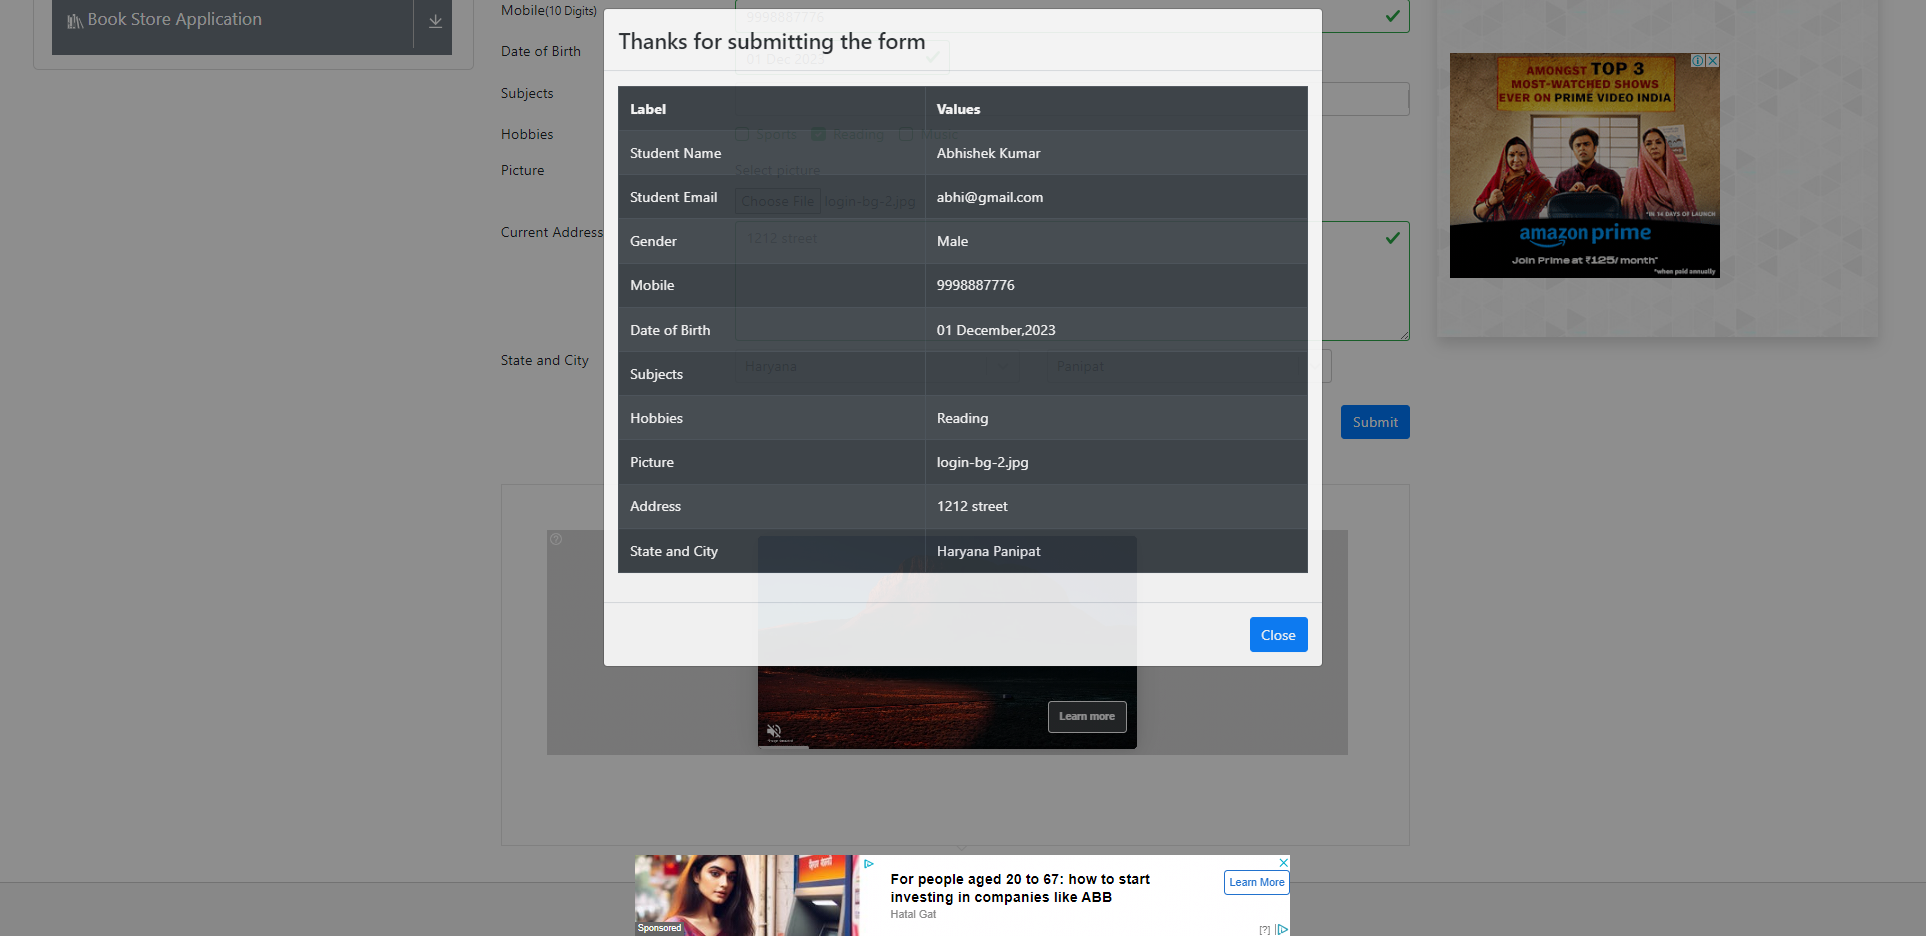
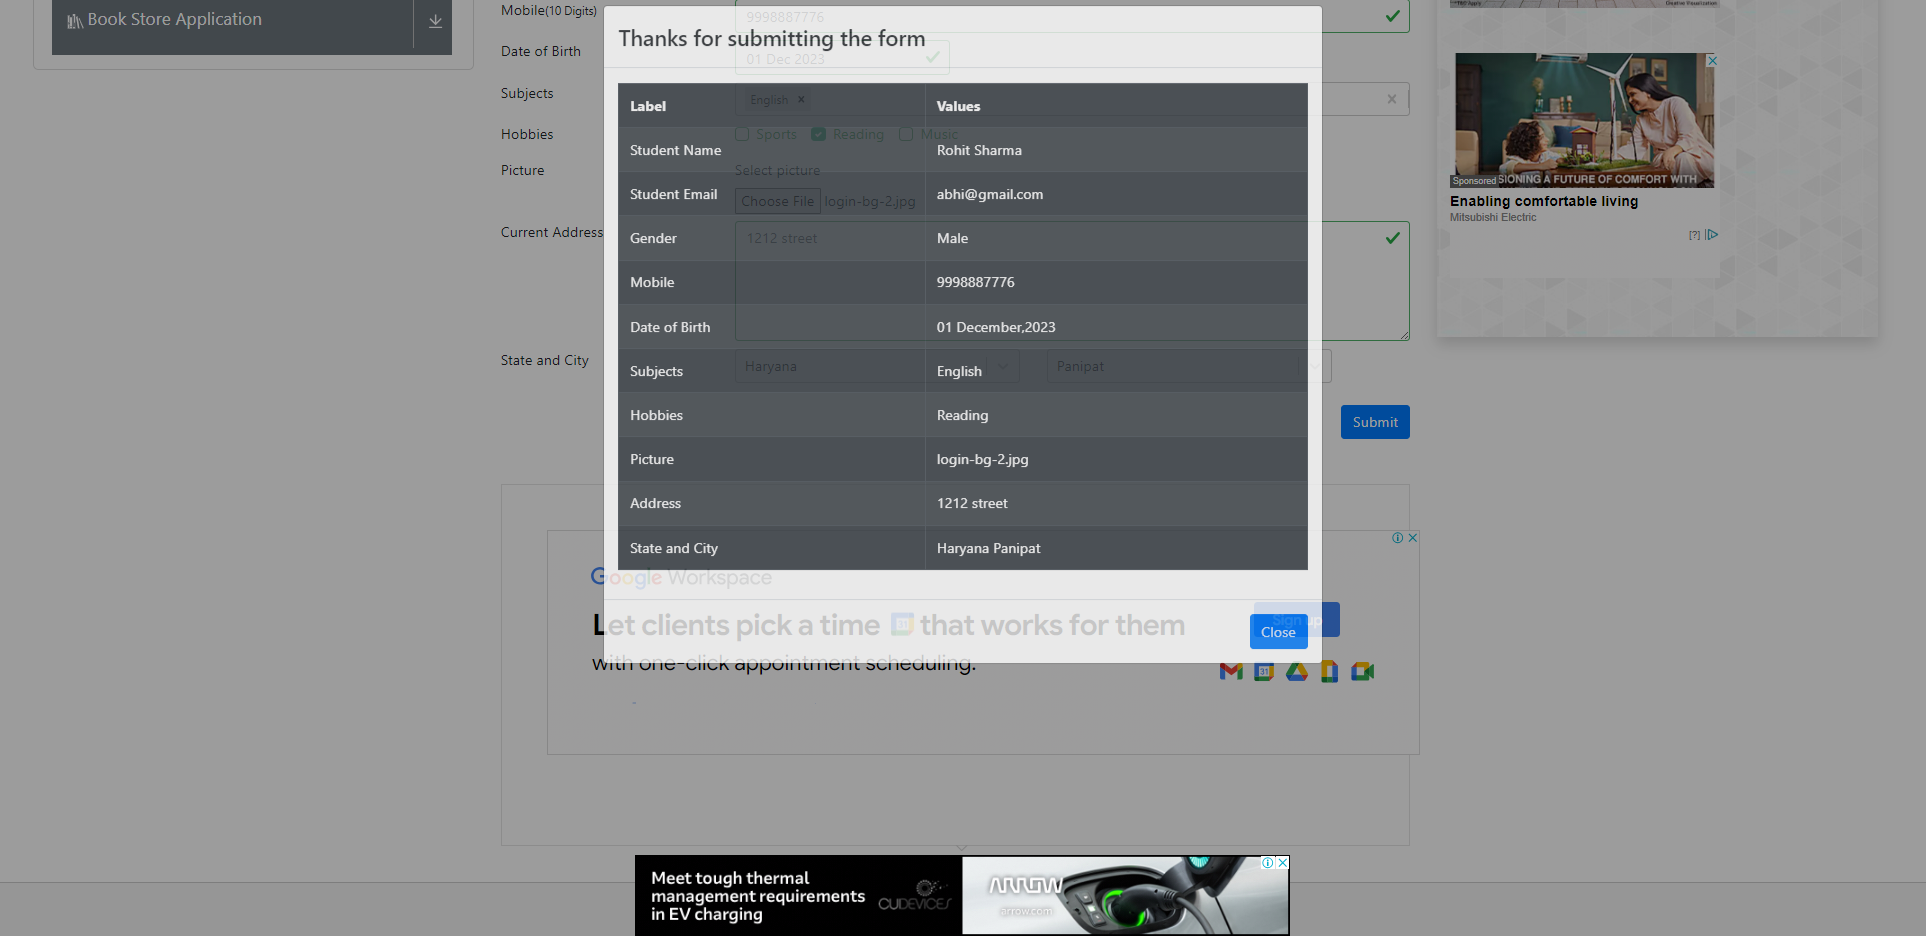
Assignment-1 completed

diff --git a/AutomationFramework/src/test/java/org/example/demo/SignupTest.java b/AutomationFramework/src/test/java/org/example/demo/SignupTest.java
@@ -4,6 +4,7 @@ import Pages.BaseClass;
 import Pages.MainPage;
 import Pages.PracticeFormPage;
 import Pages.StudentPage;
+import org.openqa.selenium.Keys;
 import org.testng.Assert;
 import org.testng.annotations.*;
 import utilities.Utilities;
@@ -47,12 +48,9 @@ public class SignupTest extends BaseClass {
         utilities.dropdownSelectByVisibleText(studentPage.year,year);
         utilities.dropdownSelectByVisibleText(studentPage.month,month);
         utilities.clickElement(driver,studentPage.selectDate(date));
-//        utilities.clickElement(driver, studentPage.subjects);
-//        studentPage.subjects.sendKeys("e");
-//        Thread.sleep(5000);
-//        utilities.enterBtnPress(driver);
-//        studentPage.subjects.sendKeys(subject2);
-//        utilities.enterBtnPress(driver);
+        utilities.clickElement(driver,studentPage.subjects);
+        studentPage.subjects.sendKeys(subject1);
+        utilities.enterBtnPress(driver);
         utilities.clickElement(driver,studentPage.selectHobbies(hobbies));
         studentPage.uploadBtn.sendKeys(picture);
         studentPage.address.sendKeys(addr);

diff --git a/AutomationFramework/src/main/java/utilities/Utilities.java b/AutomationFramework/src/main/java/utilities/Utilities.java
@@ -53,13 +53,6 @@ public void waits(WebDriver driver, WebElement element, String condition)  {
         Actions actions=new Actions(driver);
         actions.sendKeys(Keys.ENTER).perform();
     }
-    public void arrowBtnPress(WebDriver driver){
-        Actions actions=new Actions(driver);
-        actions.keyDown(Keys.ARROW_DOWN).build().perform();
-        actions.keyDown(Keys.ARROW_DOWN).build().perform();
-        actions.keyUp(Keys.ARROW_DOWN).build().perform();
-        enterBtnPress(driver);
-    }
     public void screenshot(WebDriver driver) throws IOException {
         TakesScreenshot takesScreenshot=(TakesScreenshot)driver;
         File source=takesScreenshot.getScreenshotAs(OutputType.FILE);

diff --git a/AutomationFramework/src/main/java/Pages/StudentPage.java b/AutomationFramework/src/main/java/Pages/StudentPage.java
@@ -31,7 +31,7 @@ public class StudentPage {
     public WebElement year;
     @FindBy(className = "react-datepicker__month-select")
     public WebElement month;
-    @FindBy(id="subjectsContainer")
+    @FindBy(xpath = "//input[@id='subjectsInput']")
     public WebElement subjects;
     @FindBy(id="uploadPicture")
     public WebElement uploadBtn;
